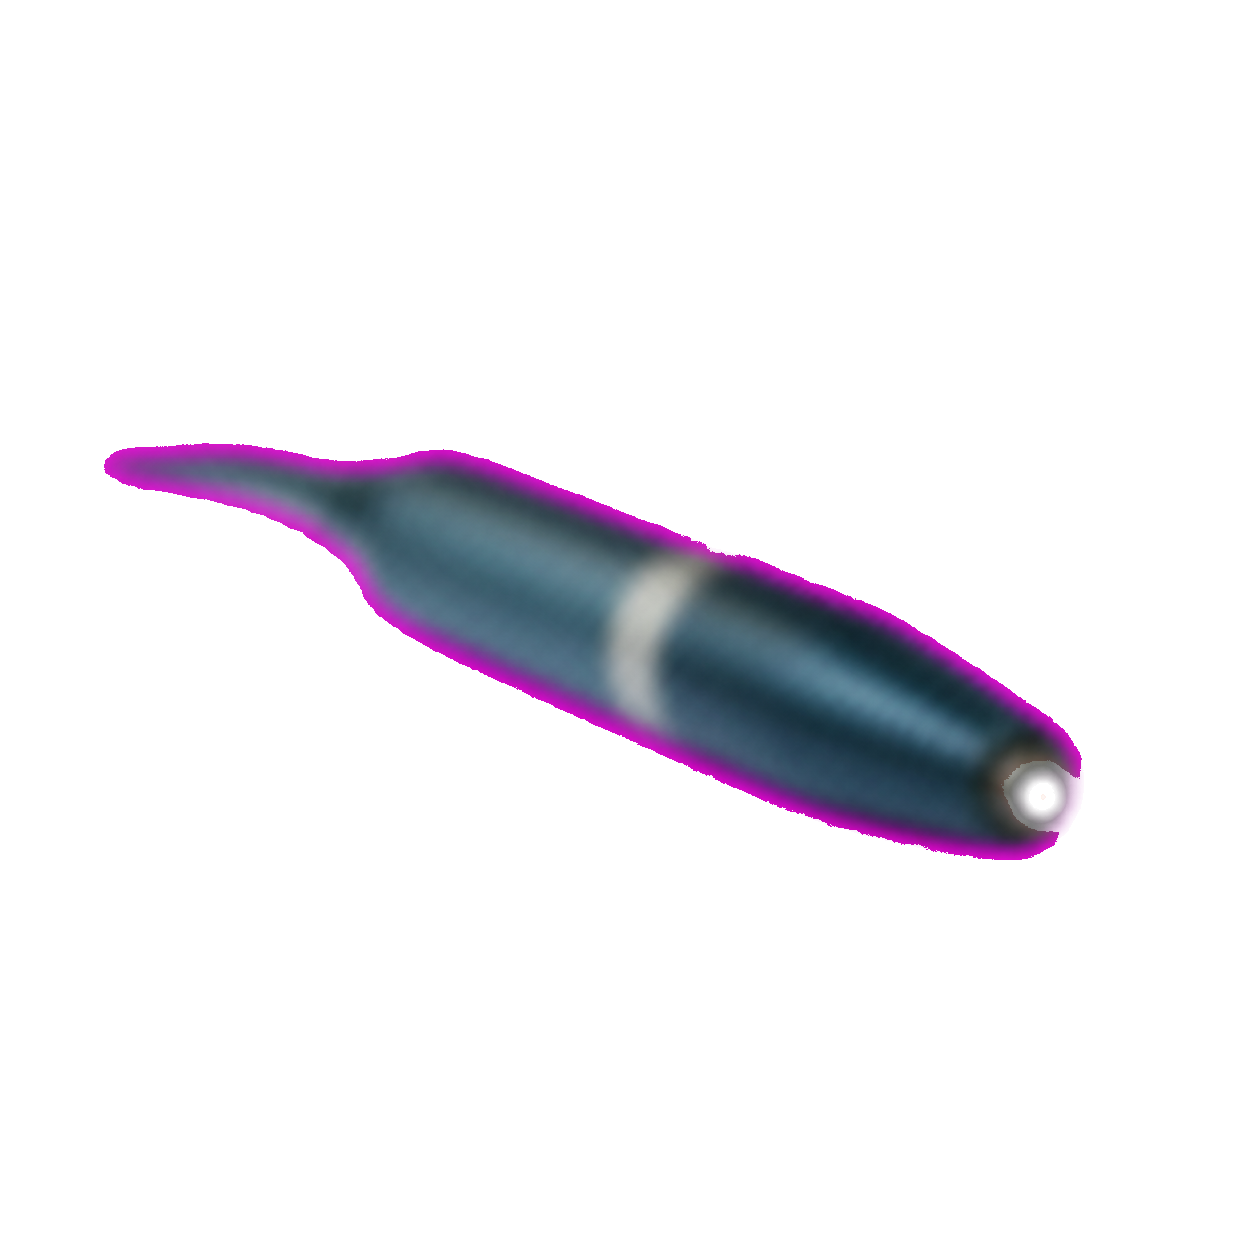
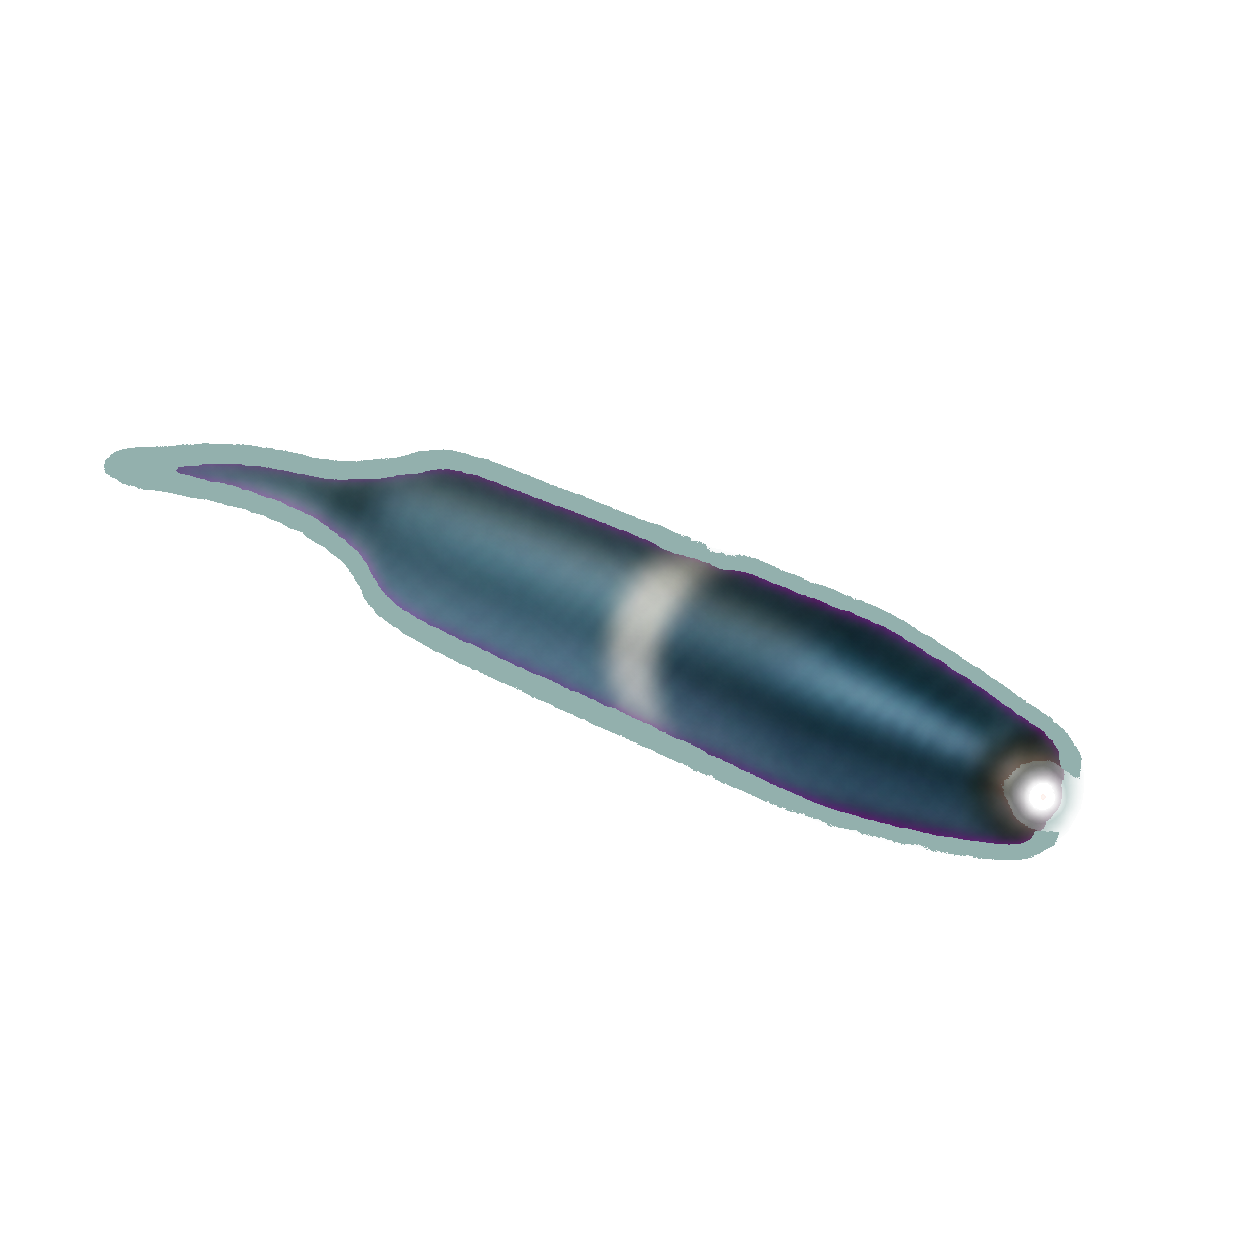
complete fibromyalgia template certification

diff --git a/artifacts/runs/cert-fibro-1/fita.html b/artifacts/runs/cert-fibro-1/fita.html
@@ -29,7 +29,7 @@
     <img class="ds-photo" data-el-id="fbs5decor" data-static data-layer data-image-type="userAsset" data-overhang="tr" src="file:///root/.openclaw/workspace/external/fabricjs-template-generator/artifacts/runs/cert-fibro-1/assets/decor-handpiece.png" style="grid-area: 1 / 10 / 4 / 13" alt="Decor bokeh de ponteira PBM">
     <div class="ds-watermark" data-el-id="fbs5wm" data-static data-layer data-tone="wm" style="grid-area: 1 / 2 / 4 / 12">ESCUTA</div>
     <div class="ds-headline" data-el-id="fbs5h" data-template-element data-te-description="Fecho" data-te-min-chars="18" data-te-max-chars="62" data-size="lg" style="grid-area: 3 / 2 / 7 / 11">NÃO PRECISA<br><span data-tone="accent">PROVAR.</span></div>
-    <div class="ds-body" data-el-id="fbs5b" data-template-element data-te-description="Pertencimento" data-te-min-chars="65" data-te-max-chars="190" style="grid-area: 8 / 2 / 10 / 10">Você merece um cuidado que escute sua rotina, respeite seus limites e construa próximos passos com você.</div>
+    <img class="ds-photo" data-el-id="fbs5decor2" data-static data-layer data-image-type="userAsset" data-overhang="bl" src="file:///root/.openclaw/workspace/external/fabricjs-template-generator/artifacts/runs/cert-fibro-1/assets/decor-light.png" style="grid-area: 9 / 1 / 13 / 5" alt="Decor luz PBM"><div class="ds-stamp" data-el-id="fbs5tag" data-static style="grid-area: 11 / 5 / 12 / 10">DOR REAL. CUIDADO REAL.</div><div class="ds-body" data-el-id="fbs5b" data-template-element data-te-description="Pertencimento" data-te-min-chars="65" data-te-max-chars="190" style="grid-area: 8 / 2 / 10 / 10">Você merece um cuidado que escute sua rotina, respeite seus limites e construa próximos passos com você.</div>
   </section>
   <section class="slide" data-role="fechamento">
     <div class="ds-stamp" data-el-id="fbs6stamp" data-static style="grid-area: 2 / 2 / 3 / 8">DOR INVISÍVEL MERECE ESCUTA</div>

diff --git a/artifacts/runs/cert-fibro-1/judge-report.md b/artifacts/runs/cert-fibro-1/judge-report.md
@@ -1,33 +1,30 @@
 # Judge — cert-fibro-1
 
-QA do render vigente (`strip.png`, 2026-08-06) contra `clinical-photo-editorial/reference.png` e `exemplos/fita-aprovada-gram-teste-1.png`.
+Rejulgamento QA do render vigente após as correções de decor e composição de S5 (2026-08-06), contra `clinical-photo-editorial/reference.png` e `exemplos/fita-aprovada-gram-teste-1.png`.
 
 ## Regras duras (R1–R6)
 
 | Regra | Veredito | Evidência verificável |
 |---|---|---|
-| R1 avatar | ok | S1 e S6 usam `professionalPhoto` com placeholder canônico no `fita.html`. |
-| R2 corte | ok | S1–S6: não há texto de leitura ou slot editável cortado pela borda do slide/canvas. |
-| R3 fundos | ok | Há paper (S1, S4–S6), foto full-bleed (S2) e fundo accent (S3). |
-| R4 área morta | **VIOLA** | S5 deixa grande bloco inferior direito e base sem âncora; a área visualmente morta supera 35% do slide. Craft fica limitado a 6. |
-| R5 UI-decor | ok | Stamps e CTA têm função editorial; não há elemento decorativo imitando interface. |
-| R6 contraste | ok | Texto teal sobre paper, texto claro sobre accent e card de S2 sobre overlay são legíveis. |
+| R1 avatar | ok | S1 e S6 usam o slot `professionalPhoto` de procedência canônica no `fita.html`. |
+| R2 corte | ok | S1–S6: nenhum texto de leitura, CTA ou slot editável é cortado pela fronteira/canvas. |
+| R3 fundos | ok | Paper em S1 e S4–S6, foto full-bleed em S2 e fundo accent em S3 asseguram mudanças reais de fundo. |
+| R4 área morta | ok | S5 foi reancorado: bokeh de luz no canto inferior, selo editorial e copy distribuem peso visual sem criar ruído; não há bloco morto dominante. |
+| R5 UI-decor | ok | Stamps e CTA têm papel editorial explícito; não há pill/toggle/botão ornamental simulando interface. |
+| R6 contraste | ok | Teal sobre paper (S1, S4–S6), texto claro sobre accent (S3) e card de S2 sobre overlay permanecem legíveis. |
 
 ## QA do pack e imagens
 
-- S1 preserva o duo-tom entrelaçado ao `professionalPhoto`; S2 é o único full-bleed + overlay + card; S3|S4 usa travessia em rodapé equilibrada; S6 fecha com `professionalPhoto`.
-- A travessia S3|S4 permanece em fundo limpo e não encobre copy.
-- **Defeito:** o decor de S5 apresenta contorno/halo magenta visível no canto superior direito. A paleta de referência é teal/paper; o resíduo de chroma não pertence ao registro clínico-editorial nem parece bokeh natural.
+- S1 mantém a assinatura de headline duo-tom entrelaçada ao `professionalPhoto`; S2 é o único full-bleed + overlay + card alert; S3|S4 preserva a travessia paisagem equilibrada; S6 fecha com `professionalPhoto`.
+- A travessia S3|S4 passa no rodapé de fundo limpo e não encobre copy, CTA ou slot profissional.
+- O decor de S5 foi reemitido sem halo magenta: o bokeh está restrito ao registro teal/paper, é específico de PBM e o novo bokeh inferior ancora o fecho sem se sobrepor à copy.
 
 ## QA narrativo — CONTEXT.md §3b + gramática LaserPro
 
-- S1 usa frase ouvida entre aspas como tensão concreta; S2 acolhe e desculpabiliza sem culpabilizar a pessoa.
-- S3 traduz o mecanismo (amplificação de sinais de dor pelo sistema nervoso) e avança a história; S4 mantém a PBM como complemento e preserva o acompanhamento clínico como essencial.
-- S5 produz pertencimento, e S6 conecta comentário/salvamento à validação oferecida. A copy é específica de fibromialgia e não faz promessas clínicas.
+- **Gancho com tensão:** S1 usa a frase ouvida “nem parece doente” para nomear o custo concreto de uma dor invisível; não é anúncio de pauta.
+- **Arco sem redundância:** S2 acolhe e desculpabiliza; S3 traduz a amplificação dos sinais de dor; S4 posiciona PBM como complemento individual sem disputar o cuidado clínico; S5 devolve pertencimento; S6 convida a continuidade.
+- **Mecanismo e compliance:** S3 dá o porquê em linguagem acessível; S4 mantém acompanhamento clínico como essencial e usa “pode ser conversada” para a PBM, sem prometer resultado.
+- **Especificidade:** fibromialgia, sistema nervoso, dor invisível, fotobiomodulação e parâmetros tornam a copy exclusiva do recorte.
+- **CTA conectado:** “EU ME VEJO” e o salvamento são consequência direta da validação e da mensagem de pertencimento entregues na fita.
 
-## Defeitos a corrigir antes de novo render
-
-1. **S5:** redistribuir a composição para que o espaço abaixo do corpo seja intencionalmente ocupado por uma âncora editorial ou foto, sem transformar o slide em ruído. É defeito de layout/estrutura do pack para este tipo de fecho.
-2. **S5 decor:** regenerar o bokeh sem chroma residual/halo magenta; usar somente o registro teal/paper e validar o alpha no render.
-
-**QA: FAIL**
+**QA: PASS**

diff --git a/packs/clinical-photo-editorial/lessons.md b/packs/clinical-photo-editorial/lessons.md
@@ -20,4 +20,4 @@
 - 2026-08-06 (gram-teste-1 v4 APROVADA): gramatica de copy do acervo validada pelo Gustavo + 3 tecnicas novas de design (travessia equilibrada 50/50, full-bleed+overlay+card alert, fechamento com professionalPhoto). Erros de composer que viraram lei/motor: 
  literal (convert normaliza), acentos obrigatorios, clone desatualizado rende CSS velho (sempre git pull antes de assemble).
 
-- 2026-08-06 (cert-fibro-1 QA): fecho com headline+corpo não pode deixar mais de 35% de área morta — ancorar o terço inferior com foto, objeto editorial ou uma composição deliberada. Decors removidos por chroma precisam ser validados no render: halo magenta residual sai da paleta e não passa como bokeh clínico.
+- 2026-08-06 (cert-fibro-1 QA): fecho com headline+corpo não pode deixar mais de 35% de área morta — ancorar o terço inferior com foto, objeto editorial ou uma composição deliberada. Decors removidos por chroma precisam ser validados no render: halo magenta residual sai da paleta e não passa como bokeh clínico. O re-render aprovado confirmou: bokeh inferior + selo editorial podem resolver a distribuição, desde que permaneçam fora da área de leitura.

diff --git a/artifacts/runs/cert-fibro-1/fidelity.md b/artifacts/runs/cert-fibro-1/fidelity.md
@@ -1,0 +1,9 @@
+# Fidelidade — cert-fibro-1
+
+- [x] O `strip.png` vigente corresponde ao `fita.html` re-renderizado.
+- [x] Os seis slides convertidos constam no manifest e conservam os `data-el-id` da fita.
+- [x] A travessia paisagem está emitida e clipada de forma equilibrada em S3 e S4.
+- [x] O bokeh da ponteira foi substituído sem halo magenta; decor inferior, selo, slots profissionais, copy e CTA preservam o render aprovado.
+- [x] R1–R6, a lei de legibilidade e os cinco checks narrativos do QA permanecem conformes no render vigente.
+
+VEREDITO: FIEL

diff --git a/artifacts/runs/cert-fibro-1/template-summary.md b/artifacts/runs/cert-fibro-1/template-summary.md
@@ -1,0 +1,3 @@
+# Fibromialgia: dor invisível também merece escuta
+
+Carrossel educativo de meio de funil para profissionais de fotobiomodulação clínica. Valida o impacto da dor invisível na fibromialgia, traduz o papel do sistema nervoso na amplificação de sinais de dor e apresenta a fotobiomodulação apenas como possível complemento individual ao acompanhamento clínico essencial. Contém 6 slides editáveis, CTA de comentário e salvamento, cores personalizáveis e slots de foto profissional.
